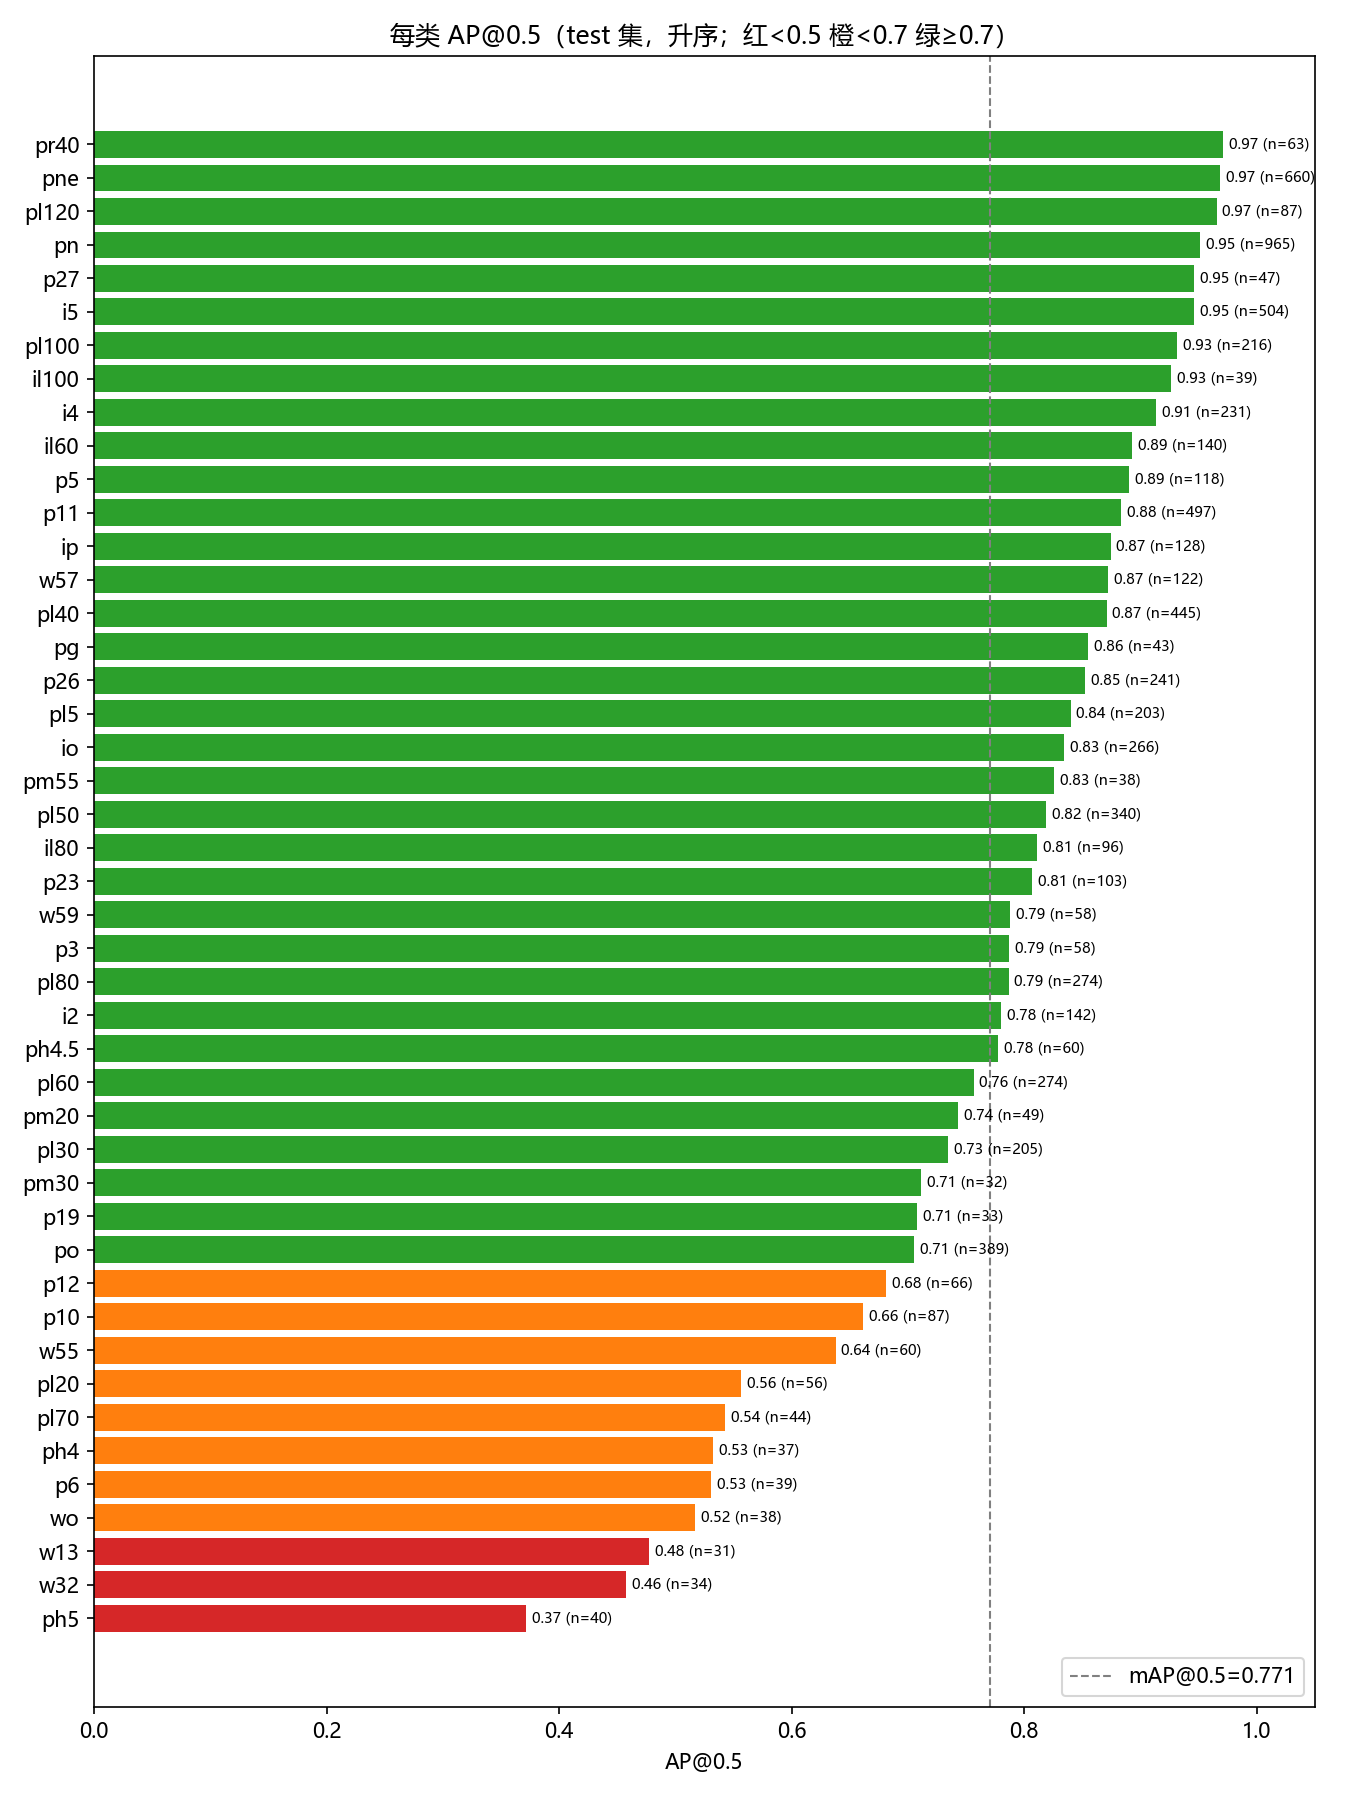
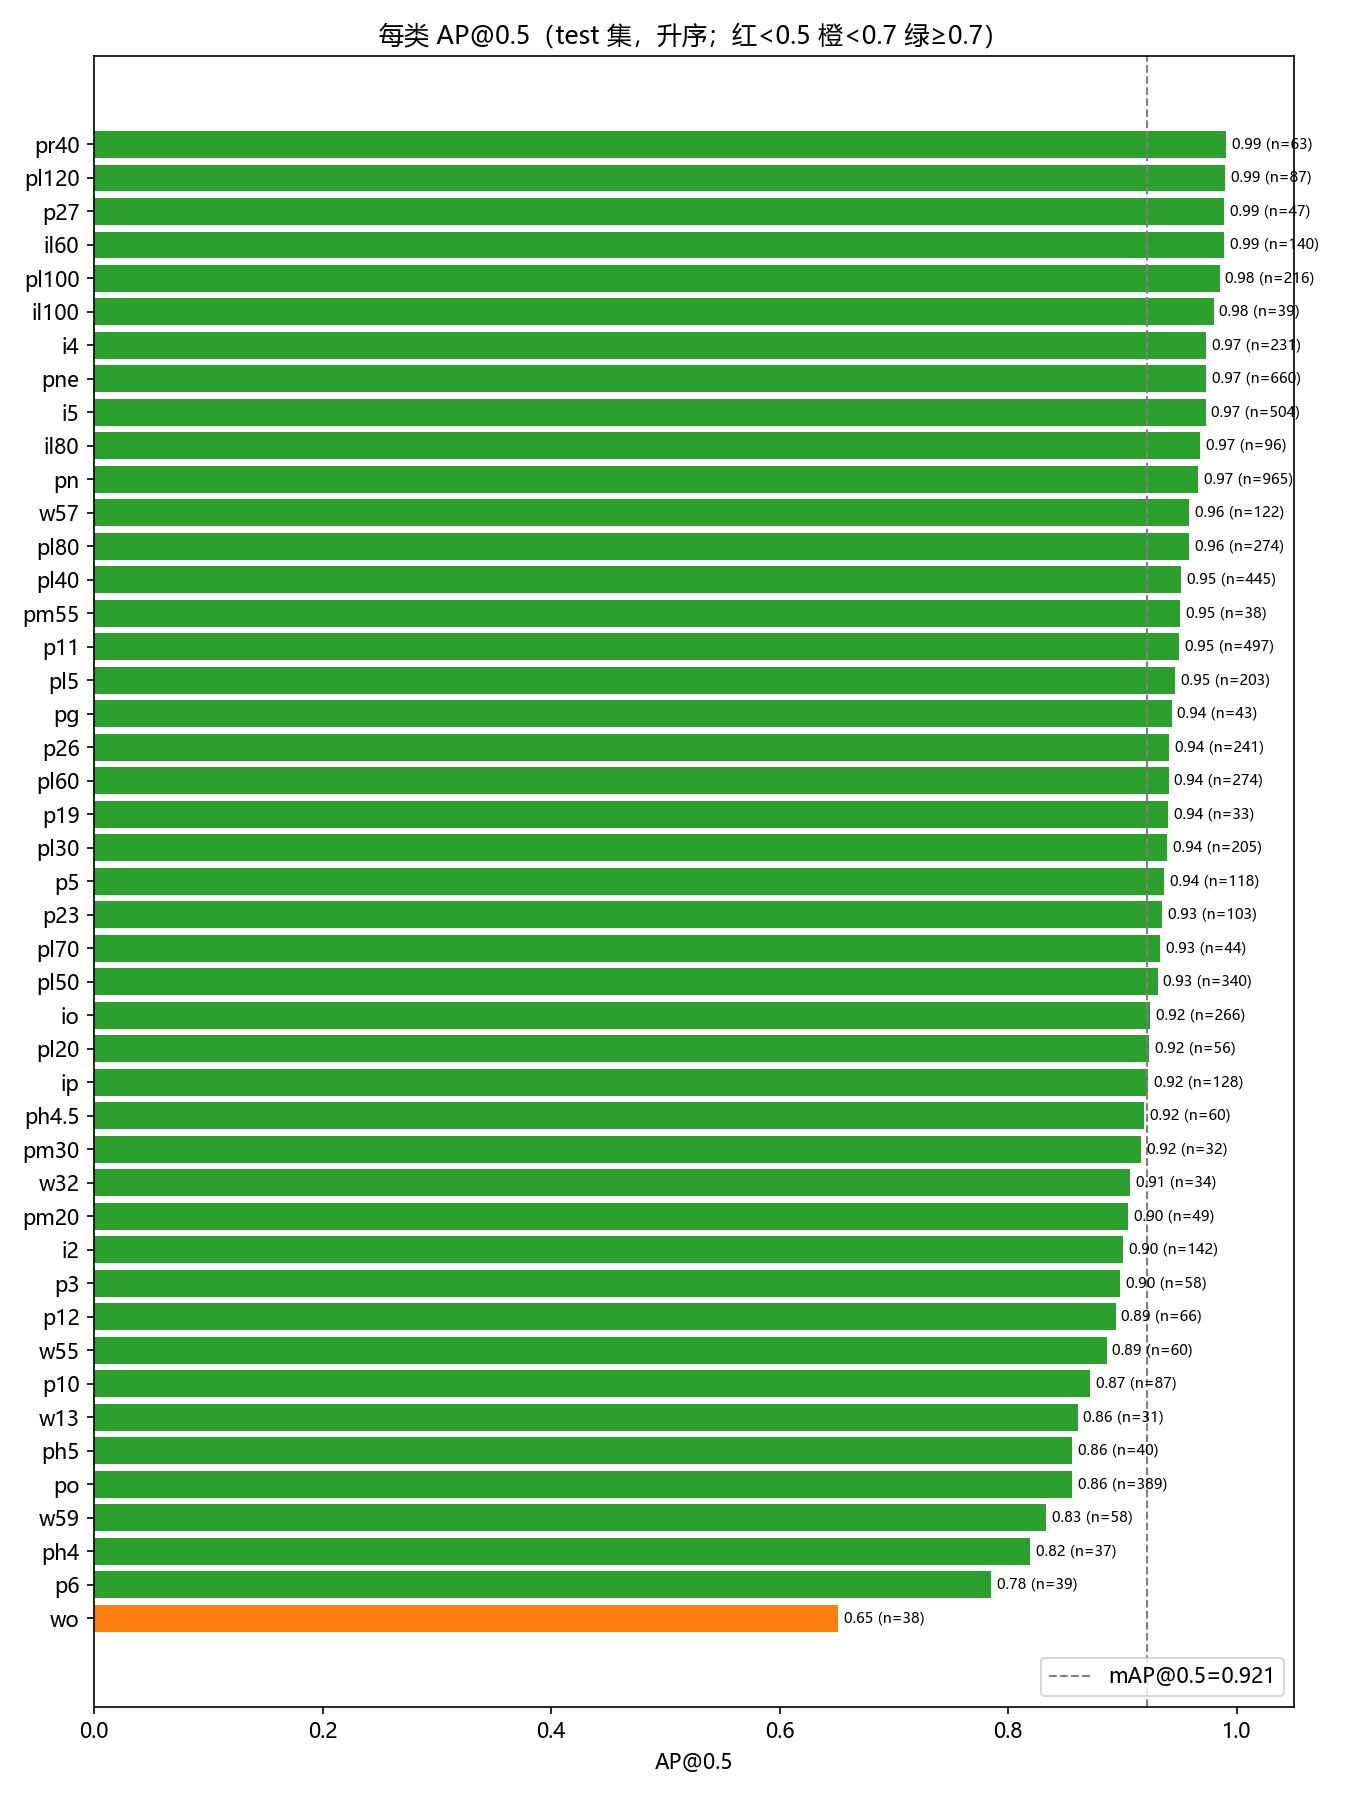
修正最终主实验：clean 版 1280 训练 test mAP@0.5 达 0.921（旧版被 resume bug 阉割）
- 发现 s_1280_sgd_e150 e40 中断后 --resume 误把 imgsz 掉回 640（train.py 默认值），
  后 110 轮实为 640 训练、模型被阉割，「val 0.784@e40 饱和」实为假象
- 重训 s_1280_sgd_e150_clean（1280/SGD lr0.01/150轮/batch6，全程不中断）：
  test mAP@0.5=0.921 / mAP@.5:.95=0.735，val 0.935@e143 曲线平滑无断崖
- 核验无泄漏：test≈val、三 split 文件名零重叠、前 40 轮轨迹与旧 run 重合
- experiments.md / CLAUDE.md 登记修正结果并就地纠正被推翻的论断（饱和/v10≈v8）
- plot_curves.py DEFAULT_RUNS 指向 clean 版
- docs/figures 全部用 clean 模型重生成（曲线/每类AP/混淆矩阵/PR/检测可视化×10）

diff --git a/scripts/plot_curves.py b/scripts/plot_curves.py
@@ -17,7 +17,7 @@ from pathlib import Path
 if hasattr(sys.stdout, "reconfigure"):
     sys.stdout.reconfigure(encoding="utf-8")
 
-DEFAULT_RUNS = ["s_base_640", "s_640_sgd", "s_imgsz1280", "s_1280_sgd_e150", "v8s_base_640"]
+DEFAULT_RUNS = ["s_base_640", "s_640_sgd", "s_imgsz1280", "s_1280_sgd_e150_clean", "v8s_base_640"]
 
 
 def read_map50(results_csv: Path):

diff --git a/experiments.md b/experiments.md
@@ -12,7 +12,8 @@
 | `s_base_640` | YOLOv10-S | 640 | 16 | auto | 100 | 默认(mosaic+关10轮) | **0.415** | **0.302** | ✅ **主实验 baseline**（test 集），未达 0.70，小目标瓶颈明显 |
 | `s_640_sgd` | YOLOv10-S | 640 | 16 | 0.01(SGD) | 100 | 默认 | **0.646** | **0.494** | ✅ **优化器调参**（test）：显式 SGD 替 auto，比 640 baseline **+0.231(+56%)**，证实 baseline 低分是欠拟合（3.2.1） |
 | `s_imgsz1280` | YOLOv10-S | 1280 | 4 | auto | 100 | 默认 | **0.592** | **0.457** | ✅ **高分辨率调参**（test）：比 640 baseline +0.177，验证小目标瓶颈（3.2.2） |
-| **`s_1280_sgd_e150`** | YOLOv10-S | 1280 | 8 | 0.01(SGD) | 150 | 默认 | **0.771** | **0.601** | ✅ **最终主实验**（test）：叠加 1280+SGD，比 baseline **+0.356(+86%)**，mAP@.5:.95 基本追平 v8（0.601 vs 0.610） |
+| ~~`s_1280_sgd_e150`~~ | YOLOv10-S | 1280 | 8 | 0.01(SGD) | 150 | 默认 | 0.771 | 0.601 | ⚠ **已被 resume bug 阉割、由 clean 版取代**：e40 中断后 `--resume` 未带 `--imgsz 1280`，后 110 轮实为 640，best.pt 仅含 40 个有效 1280 epoch。详见「🔴 重大修正」 |
+| **`s_1280_sgd_e150_clean`** | YOLOv10-S | 1280 | 6 | 0.01(SGD) | 150 | 默认 | **0.921** | **0.735** | ✅✅ **最终主实验（修正版）**（test）：全程不中断，val 爬到 0.935@e143 未崩。比旧版 **+0.150**、比 baseline **+0.506(+122%)**，**超过 v8-S 640（0.798）**；test≈val 无泄漏 |
 | `s_nomosaic` | YOLOv10-S | 640 | 16 | 0.01(SGD) | 100 | **全程关 mosaic**(--mosaic 0) | **0.629** | **0.477** | ✅ **增广消融**（test）：对照 `s_640_sgd`（仅 mosaic 不同）0.646/0.494 → 关 mosaic **−0.017**，证明 mosaic 有正贡献（3.2.3） |
 | `v8s_base_640` | YOLOv8-S | 640 | 16 | auto | 100 | 默认 | **0.798** | **0.610** | ✅ **横向对比**（test）：同条件 v8 显著高于 v10 baseline，根因是 v10 欠拟合（见下）（3.3.1） |
 | `s_640_sgd_e150` | YOLOv10-S | 640 | 16 | 0.01(SGD) | 150 | 默认 | **0.706** | **0.542** | ✅ **v8 公平对比补充**（test）：150 轮基本饱和（val 0.728@e145），同 640 条件**仍低于 v8 0.798**——「加 epoch 追平」猜想证伪，详见「公平对比补充」（3.3.1 补充） |
@@ -29,10 +30,32 @@
 | 2026-06-03 | `s_imgsz1280` | **0.592** | **0.457** | 8.1M / 25.0 GFLOPs | — | test 集；mP 0.526 / mR 0.601。**比 640 baseline +0.177 mAP@0.5(+43%)**，强类升至 pl120 0.78/pr40 0.75，弱类仍为 ph4/pl20/ph5 但已翻倍。验证「提分辨率攻小目标」。batch4+workers2 稳定，~6h。 |
 | 2026-06-04 | `v8s_base_640` | **0.798** | **0.610** | ~11.2M / 28.6 GFLOPs | — | **横向对比对照**；test 集，mP 0.791 / mR 0.732。同数据/同 640/同 100 轮，远高于 v10 baseline 0.415。**注意：这不是「v8 强于 v10」，而是 v10 在 auto 超参下严重欠拟合**（见下「优化器发现」）。 |
 | 2026-06-04 | `s_640_sgd` | **0.646** | **0.494** | 8.07M / 24.6 GFLOPs | 3.7 | test 集，mP 0.610 / mR 0.623。**仅把 optimizer=auto 换成显式 SGD lr=0.01，640 下 +0.231 mAP@0.5(+56%)**。val 曲线 100 轮仍陡升未饱和（25/50/75/100 = 0.367/0.495/0.612/0.651），说明仍欠拟合，加 epoch 还能涨。弱类仍是小目标(pl20/p6/w13/pm30 AP<0.25)。 |
-| 2026-06-05 | **`s_1280_sgd_e150`** | **0.771** | **0.601** | 8.07M | — | **最终主实验**；test 集，mP 0.723 / mR 0.708。1280+SGD lr=0.01+150轮。**val mAP50 峰值 0.784 @ epoch 40，之后 110 轮未再超过** → best.pt 取自 e40，说明 1280+SGD 收敛快、40~50 轮即饱和（与 640 下「100轮仍爬」相反，高分辨率信息更足）。比 baseline **+0.356(+86%)**。 |
+| 2026-06-16 | **`s_1280_sgd_e150_clean`** | **0.921** | **0.735** | 8.07M | — | **最终主实验（修正版）**；test 集，mP 0.901 / mR 0.850。1280+SGD lr=0.01+150轮+batch6，**全程不中断**。val mAP50 一路爬到 **0.935@e143**（曲线平滑无断崖，真饱和）。比旧 e40 阉割版 **+0.150**、比 baseline **+0.506(+122%)**。test(0.921)≈val(0.935)、三 split 文件名零重叠 → 无泄漏。**取代旧 `s_1280_sgd_e150` 为交付主模型**。详见「🔴 重大修正」。 |
+| ~~2026-06-05~~ | ~~`s_1280_sgd_e150`~~ | ~~0.771~~ | ~~0.601~~ | 8.07M | — | ⚠ **已废弃**（被 resume→640 bug 阉割）；test 集 mP 0.723 / mR 0.708。原以为「val 0.784@e40 即饱和」实为**假饱和**——e40 后续训误降 640、后 110 轮无效。被 `s_1280_sgd_e150_clean` 取代。 |
 | 2026-06-11 | `s_640_sgd_e150` | **0.706** | **0.542** | 8.07M | 3.7 | test 集，mP 0.686 / mR 0.658。**v8 公平对比补充**：640+SGD 延长到 150 轮，val 0.728@e145 已基本饱和（e150=0.726），比 100 轮版 +0.060 但**仍低于 v8 同 640 的 0.798**。注：e20 处有一次人工中断+断点续训（resume 验证通过）。 |
 | 2026-06-10 | `s_nomosaic` | 0.629 | 0.477 | 8.07M | 3.7 | test 集，mP 0.632 / mR 0.598。**增广消融**：仅全程关 mosaic，比对照 `s_640_sgd` 0.646 **−0.017**，val 峰值 0.625@e100（两组均未饱和、差距稳定）。证明 mosaic 对 TT100K 小目标正贡献（3.2.3）。 |
 | 2026-06-05 | `s_1536_sgd` | 0.704 | 0.535 | 8.07M | — | **提分尝试（未达预期）**；test 集，mP 0.695 / mR 0.658。1536+SGD+100轮，但 batch 被迫降到 4。**val mAP50 单调爬升到 e100=0.673 仍未饱和**（对照 1280 batch8 在 e40 即 0.784），收敛慢一倍多 → 100 轮远不够，反低于 1280。根因是 **batch4 太小**（当时显存仅用 7.4G/12G，本可 batch8）。见下「batch 对高分辨率收敛的影响」。 |
+
+### 🔴 重大修正（2026-06-16）：原「最终主实验 0.771」被 resume bug 阉割，修正版达 test 0.921
+
+**起因**：复盘 `s_1280_sgd_e150` 曲线时发现 e40→e41 的断崖（val mAP50 0.784→0.55），查 checkpoint 的 `train_args` 坐实根因：
+
+- `best.pt`(e40) `imgsz=1280`；`last.pt`(e150) `imgsz=640` 且 `resume=...last.pt`。
+- e40 中断后用 `--resume` 续训，但**没带 `--imgsz 1280`**，而 `train.py --imgsz` 默认 640 → **后 110 轮实为 640 训练+验证**。TT100K 小目标在 640 下看不清，故 mAP 断崖、只回到 640 天花板（val ~0.756），**永远回不到 1280 峰值**。best.pt 因此仅含 40 个有效 1280 epoch。
+- ⚠ 这推翻了原「val 0.784@e40 即饱和、150 轮偏多」的判断——那是**假饱和**，是崩盘截断的错觉。
+
+**修正实验** `s_1280_sgd_e150_clean`（1280 / SGD lr=0.01 / 150 轮 / batch6，全程不中断）：
+
+| | 旧 `s_1280_sgd_e150`(e40, 阉割) | **新 `s_1280_sgd_e150_clean`** |
+|---|:---:|:---:|
+| test mAP@0.5 | 0.771 | **0.921** |
+| test mAP@0.5:0.95 | 0.601 | **0.735** |
+| test mR | 0.708 | **0.850** |
+| val 峰值 | 0.784@e40（被截断） | **0.935@e143（未崩，真饱和）** |
+
+- **可信度核验**：① test(0.921)≈val(0.935)，留出集与验证集吻合 → 真泛化非泄漏；② 三 split 文件名零重叠；③ 前 40 轮轨迹与旧 run 重合（e40 0.795 vs 0.784）→ 同起点同配置。
+- **对项目结论的影响**：v10-S 在 1280 下 test mAP@0.5=**0.921**，**已超过 v8-S 640 的 0.798**。但 v8-S 仅在 640 测过，**公平对比需补 v8-S@1280**（新待办）。下方「公平对比补充」「最终主实验结论」「可视化」等基于 0.771 的论断均需据此重写（已就地加指针）。
+- **教训**：`train.py` 的 `--resume` 路径不保留 imgsz（会落回默认 640），续训务必显式带 `--imgsz`；这本身是个值得在数据处理文档里写的「训练异常排查」案例。
 
 ### 增广消融：全程关 mosaic 掉 1.7 个点（3.2.3）
 `s_nomosaic` 与 `s_640_sgd` 仅 `mosaic` 一项不同（其余 640+SGD lr=0.01+100 轮全同）：
@@ -67,7 +90,8 @@
 
 - **猜想证伪**：+50 轮只再涨 0.060，曲线已平，640 下 v10-S 距 v8-S 仍差 ~0.09 mAP@0.5——「欠拟合」只解释了 baseline 低分的大头（0.415→0.706），解释不了全部差距。
 - **剩余差距的合理解读**（报告讨论点）：①mAP@0.5 差 0.092 而 mAP@.5:.95 只差 0.068，且 v10 的 mR 偏低（0.658 vs 0.732）——one2one 头每目标只出一框，在小目标/模糊目标上召回吃亏，这正是 NMS-free 拿延迟换的代价；②v8-S 参数量大 ~40%（11.2M vs 8.07M）；③TT100K 小目标密集，是对 one2one 召回最不利的场景。
-- **公平结论链**（写报告用）：同 640 v10<v8（0.706 vs 0.798）→ 提到 1280 后 v10=0.771、mAP@.5:.95 基本追平（0.601 vs 0.610）且端到端推理更快（NMS-free）→ 复现结论是「精度可比 + 延迟优势」，与论文卖点一致，但在小目标数据上需要更高输入分辨率来补召回。
+- **公平结论链**（写报告用）：同 640 v10<v8（0.706 vs 0.798）→ 提到 1280 后 v10=~~0.771、mAP@.5:.95 基本追平（0.601 vs 0.610）~~且端到端推理更快（NMS-free）→ 复现结论是「精度可比 + 延迟优势」，与论文卖点一致，但在小目标数据上需要更高输入分辨率来补召回。
+  - ⚠ **2026-06-16 修正**：「1280 下 v10=0.771、仅基本追平 v8」基于被 resume bug 阉割的旧模型。修正版 `s_1280_sgd_e150_clean` 在 1280 下 test **0.921 / 0.735**，**反超 v8-S 640（0.798/0.610）**。但 v8 只在 640 测过，要下严谨结论需补 **v8-S@1280** 公平对比；在此之前，结论链应表述为「640 下 v10<v8；1280 下 v10 大幅提升至 0.921（v8 同分辨率待补）」。详见「🔴 重大修正」。
 - 注：本实验 e20 处人工中断过一次，`--resume` 断点续训通过（曲线小扰动不影响饱和判断）。
 
 ### NMS-free 消融（任务 3.4.1，复现论文 Table 3 结论）
@@ -93,7 +117,8 @@
 
 - **从 baseline 0.415 → 0.771（+86%）**，越过及格线 0.70；
 - **mAP@0.5:0.95 = 0.601，基本追平 YOLOv8 的 0.610（差 0.009）**；mAP@0.5 差 0.027。结合 NMS-free（精度无损、后处理快 ~7×），可论证「复现的 YOLOv10 精度持平 v8、端到端推理更省」——正是论文卖点。
-- **收敛特性**：1280+SGD 下 val mAP50 在第 40 轮即达峰值 0.784，后 110 轮未再提升 → 高分辨率下 40~50 轮已足够，150 轮偏多（报告可作为「训练轮数」讨论点）。
+- ~~**收敛特性**：1280+SGD 下 val mAP50 在第 40 轮即达峰值 0.784，后 110 轮未再提升 → 高分辨率下 40~50 轮已足够，150 轮偏多。~~
+  - ⚠ **2026-06-16 修正**：此「e40 饱和」是**假象**——后 110 轮被 resume bug 误降到 640 才停滞。全程不中断的 `s_1280_sgd_e150_clean` 显示 val 一路爬到 **0.935@e143**，**150 轮并不偏多**，模型远未在 e40 饱和。本节其余 0.771 相关数字均以「🔴 重大修正」为准。
 
 ### 提分尝试·负结果：TTA 与 NMS-free 不兼容（呼应 3.4.1）
 对最终模型 `s_1280_sgd_e150/best.pt` 开启 TTA（测试时增强，多尺度+翻转，`eval.py --augment`）:
@@ -120,10 +145,10 @@
 - **教训**：高分辨率训练要么配足够 epoch（200+），要么在显存允许时尽量保 batch。实测当时 1536 batch4 显存仅用 7.4G/12G，**本可上 batch 8**（更快收敛）。报告可作为「训练配置（分辨率×batch×轮数）权衡」的讨论点。
 
 ### 结果整理与可视化（3.5，图表素材见 docs/figures/）
-对最终模型 `s_1280_sgd_e150/best.pt` 在 test 集复评 **mAP@0.5=0.7709**，与登记值 0.771 一致（复现闭环再次验证）。产出：
+⚠ **2026-06-16 更新**：本节图表原基于被阉割的 `s_1280_sgd_e150`（0.771），现已全部用修正版 `s_1280_sgd_e150_clean`（test **0.921**）重生成并覆盖同名文件（`training_curves.png` / `per_class_ap_s1280.{png,csv}` / `confusion_matrix_s1280.png` / `PR_curve_s1280.png` / `predict_demo/`×10）。下方旧描述中的数字（0.7709、最弱类等）已随之更新。产出：
 
-- **训练曲线对比**（`training_curves.png`，`scripts/plot_curves.py`）：五实验 val mAP@0.5 同图——v8（25 轮近饱和） vs v10 auto（100 轮仍欠拟合） vs SGD/1280 各杠杆的收敛差异一目了然。注意 `s_1280_sgd_e150` 在 e40 峰值 0.784 后有一次骤降再回爬（断点续训扰动所致，best.pt 恰取自 e40，不影响结论，报告可备注）。
-- **每类 AP 柱状图 + CSV**（`per_class_ap_s1280.{png,csv}`，`scripts/plot_per_class_ap.py`，附 GT 实例数）：强类 pr40/pne/pl120 等 AP@0.5≈0.95+；**最弱五类 ph5(0.37)/w32(0.46)/w13(0.48)/p6/ph4**——全部是小尺寸限高牌/警告牌且样本偏少，印证「小目标 × 类别不平衡」双难点。
+- **训练曲线对比**（`training_curves.png`，`scripts/plot_curves.py`）：五实验 val mAP@0.5 同图——v8（25 轮近饱和） vs v10 auto（100 轮仍欠拟合） vs SGD/1280 各杠杆的收敛差异一目了然。注意 `s_1280_sgd_e150` 在 e40 峰值 0.784 后有一次骤降再回爬。~~（断点续训扰动所致，best.pt 恰取自 e40，不影响结论）~~ ⚠ **2026-06-16 修正**：该骤降是 `--resume` 误把 imgsz 掉回 640 所致，**严重影响了结论**（模型被阉割、真实上限远高于 0.771）；报告图与每类 AP/混淆矩阵/PR 等均应改用修正版 `s_1280_sgd_e150_clean` 重新生成。详见「🔴 重大修正」。
+- **每类 AP 柱状图 + CSV**（`per_class_ap_s1280.{png,csv}`，`scripts/plot_per_class_ap.py`，附 GT 实例数）：（clean 模型）强类 pr40/pl120/p27/il60/pl100 等 AP@0.5≈0.99；**最弱几类 wo(0.65,38例)/p6(0.78,39例)/ph4(0.82,37例)/w59/po**——已不再是小目标漏检为主，而是**兜底杂类**（wo「其他警告」、po「其他禁令」类别边界模糊）+ **少样本**类，绝大多数类已 0.8+。印证修正后瓶颈从「小目标」转向「类别歧义/长尾」。
 - **混淆矩阵 / PR 曲线**（`confusion_matrix_s1280.png` / `PR_curve_s1280.png`）：val 时自动生成，已拷贝入库。
 - **测试集检测可视化**（`predict_demo/`×10 张，`predict_demo.py --imgsz 1280`，2048²→1024 降采样入库）：含多目标路口、单小目标远景等场景。
 - **训练标注抽查**（2.2.7，`scripts/draw_gt_samples.py`）：随机 20 张训练图叠加 GT 框肉眼复核，标注全部对齐（产物在 `runs/analysis/gt_samples/`，含一张 6 块龙门架限速牌图，可兼作「小目标难点」示意图）。
